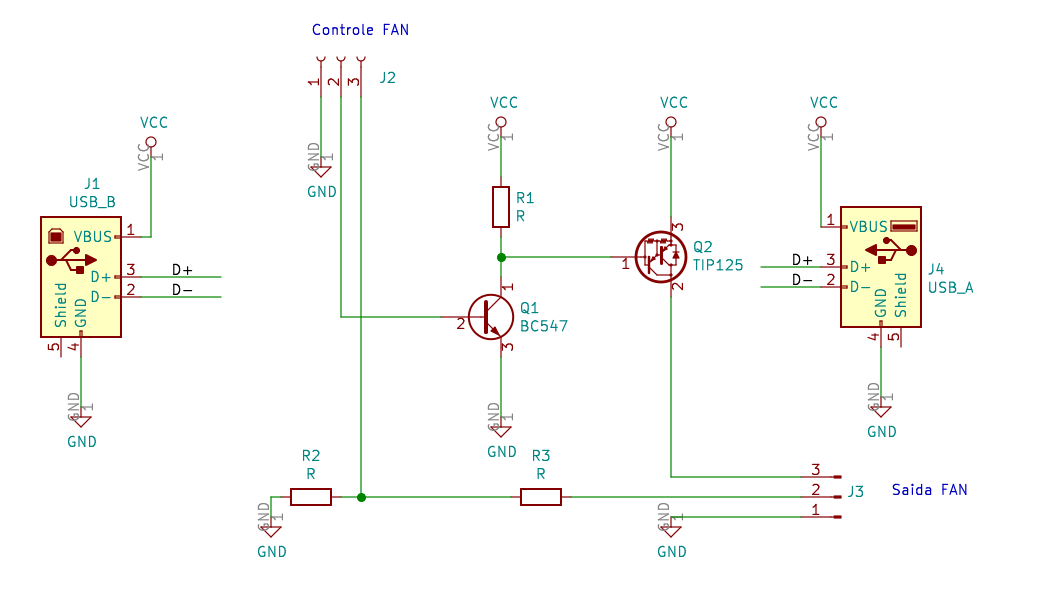
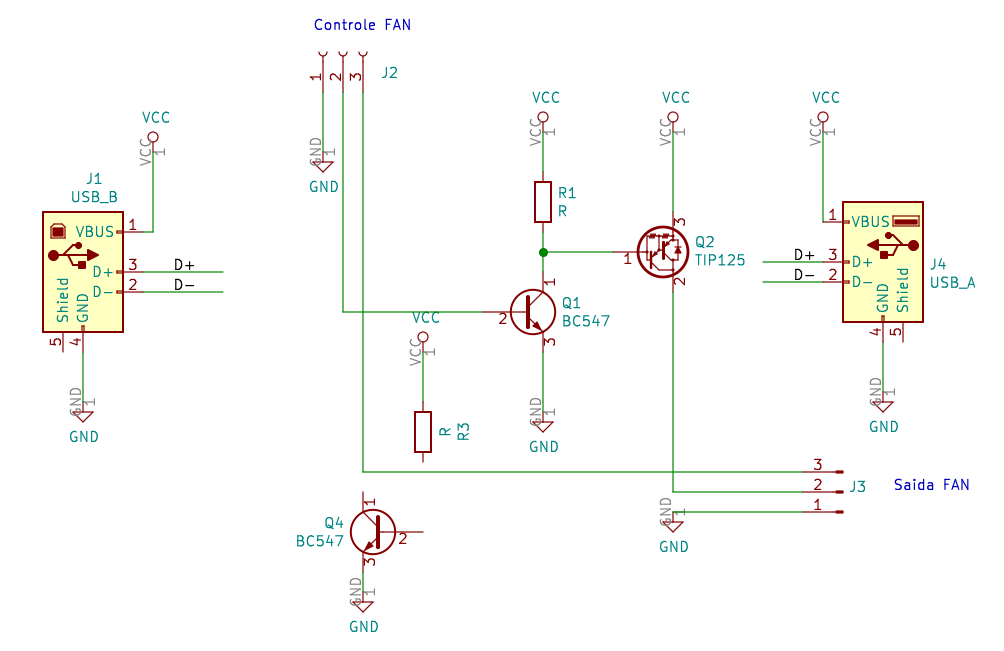
Atualizacao com controle de FAN

diff --git a/README.md b/README.md
@@ -1,4 +1,5 @@
-# ESP12_Secador
+# Desidratador automático de laboratório 
+
 Projeto de desenvolver um desidratador de laboratorio a partir de um forno elétrico.
 
 Desenvolvido por Rudi van Els [site](http://fga.unb.br/rudi.van) inicio dezembro 2020.
@@ -9,12 +10,11 @@ Desenvolvido por Rudi van Els [site](http://fga.unb.br/rudi.van) inicio dezembro
 # 1. Apresentação 
 
 Por que fazer este desidratador?
-A demanda surgiu depois de observar o trabalho demorada de levantar curva de secagem de produtos em laboratório onde era necessária  fazer medidas da perda de massa durante horas. 
+A demanda surgiu depois de observar o trabalho demorada de levantar curva de secagem de produtos em laboratório onde era necessária  fazer medidas da perda de massa durante horas ou dias. 
 
 Um processo típico pode levar algumas horas, com a necessidade de registrar essa perda a intervalos regulares que variam de um a alguns dezenas de minutos. 
 
 Como não tem desidratadores que fazem essas medidas automáticas, resolvi fazer um. Em vez de pegar um desidratador pronto, resolvemos adaptar um forne elétrico, pois os desidratadores comerciais no mercado não são muito apropriados para uso no laboratório por causa do seu tamanho. 
-
 
 A escolha do usar um forne elétrico é por causa da grande variedades de modelos disponíveis no mercado a preços competitos. Entretanto, nada impede de pegar a tecnologia desenvolvido e adapta-lo a um desidratador comercial.  
 
@@ -32,7 +32,11 @@ O desidratador de laboratório deve ser capaz de:
 
 
 A figura a seguir mostra a proposta do diagrama de bloco do desidratador. 
+
 ![](figuras/Diagrama_de_blocos.jpg)
+
+O desidratador tem uma entrada de ar controlador por um ventilador, uma câmara de aqueciemento com resistores de aquecimento, uma bandeja pendurada numa balança com a amostra a ser desidratada, e uma saída de ar na parte superior. 
+O equipamento mede a umidade e temperatura na entrada e saída por meio de uma unidade de controle e mostra os dados num display. 
 
 Num futuro pretende-se desenvolver um equipamento que possa-se automáticamente fazer a desidratação a partir de uma taxa de secagem  escolhida.
 
@@ -46,20 +50,30 @@ Este video mostra o forno e a proposta de transformar o forno num desidratador. 
 
 ## 3.1. Adaptação mecânica da parte interna do forno
 
+O princípio de funcionamento do desidratador e circular ar na amostra capaz de absorver a umidade.
+Para isso o ar do fora do desidratar é aquecida numa câmara de aquecimento para depois circular no desidratador e em seguida extraída para fora.
+Assim vamos ter que construir uma entrada de ar controlada no lateral do forno e uma saída, tipo chamine na parte superior do forno.
+A entrada de ar deve dar acesso a uma câmara de aquecimento.
 
+ 
 
 ## 3.2. Câmara de aquecimento 
 
-## 3.3. Balança eletrônica
-O video mostra a balança instalada no forno fazendo a pesagem automática. 
+O forno já tem resistências de aquecimento que podem ser aproveitados. Ao total o forno tem 4 resistores de aquecimento que formam dois circuitos separados com 2 resistores em serie. Cada uma das resistência tem 30 ohms. Assim a potência minima com dois resistores em série (60 ohms) ligado a rede de 220 volts é de 800 Watts.
+Com os dois circuitos em paralelo o sistema pode produzir 1600 Watts.
+ 
+Como ainda não se sabe qual a potência necessária para fazer a desidratação vamos começar fazer uma configuração com os quatro resistores em serie, colocando assim inicialmente 400 Watts de capacidade máxima de aquecimento. 
 
-[Video com o protótipo da pesagem automática](https://www.youtube.com/watch?v=mP0JLjlJqJM)
+A configuração original do forno tinha um banco de resistores na parte de cima do forno e um banco com dois resistores em baixa. 
+A primeira adaptação foi colocar os dois resistores da parte superior na parte de baixo do forno e abrir uma entrada para o ar no lateral, como mostrado na foto a seguir.
 
-A medição da massa é feito por uma célula de carga e um amplificador de instrumentação HX711 mostrada na foto.
-![](fotos/esp-hx11.jpg)
+![](fotos/resistencia_aquecimento.jpg)
 
+Para que o ar seja aquecido de forma uniformente ao no ambiente interno do forno, é necessário construir uma câmara  de aquecimento. 
 
-## 3.4. Duto de ar de entrada
+### 3.2.1 Construção da câmara
+
+## 3.3. Duto de ar de entrada
 No lataral do forno foi feita uma adaptação colocando um duto de ar para captar o ar de fora por meio de um ventilador que pode ter sua velocidade controlada.
 
 O video mostra a adaptação e o duto de ar. 
@@ -70,6 +84,52 @@ O video mostra a adaptação e o duto de ar.
 A foto mostra o medidor de umidade e temperatura DHT11 instalada no duto de entrada do ar.
 
 ![](fotos/duto-com-dht11.jpg) 
+
+## 3.4. Balança eletrônica
+
+Uma das principais necessidades do desidratador é de poder medir a massa da amostra sem ter que tira-lo do equipamento. 
+Para fazer isso foi construído na parte superior do forno um suporte para fixar uma balança eletrônica que por sua vez permite pendurar uma bandeja. 
+A estrutura de suporte da bandeja foi construido em aluminio e tem, junto com a bandeja uma massa de aproximadamente xxx gramas.
+A foto a seguir mostra o suporte e a bandeja. 
+
+
+![](fotos/rack_com_balanca.jpg)
+
+A balança eletrônica tem como elemento central uma célula de carga com capacidade de medir até 1 kg.
+Dessa forma pode se colocar amostras de até 500 gramas, que bastante suficiente para uma amostra de secagem. 
+
+A foto em baixo mostra o detalhe da instalação da célula de carga. 
+
+![](fotos/celula_carga_montada.jpg)
+
+
+O video a seguir mostra a balança instalada e funcionando no forno fazendo a pesagem automática. 
+
+[Video com o protótipo da pesagem automática](https://www.youtube.com/watch?v=mP0JLjlJqJM)
+
+A célula de carga é ligado a um amplificador de instrumentação HX711 que é processado pelo microcontrolador que comando todo funcionamento do sistema. A foto a seguir mostra o amplificador HX711 e o microcontrolador ESP-12F.
+
+![](fotos/esp-hx11.jpg)
+
+### 3.4.1. Compensação de temperatura
+
+Um desafio deste projeto é de fazer a compensação da medição de massa com o aumento da temperatura, já que o ensaio vai ser realizado com temperatura bem a cima de temperatura ambiente para qual o sensor é calibrado.   
+
+A especificação técnica da célula de carga o sensor deve aguantar temperaturas até 70 graus, mas deve ter uma distorção da medição com o aumento da temperatura. 
+
+Um ensaio num outro projeto [1] com uma celulá de carga com a mesma caracterítica levantou o comportamento da mesma em relação aumento de temperatura. A figua a seguir mostra que uma amostra inerte de massa conhecido submetido a um ensaio. 
+
+![](figuras/ensaio_celula_carga.jpg)  
+
+Chega se a conclusão que tem para um aumento de 30  graus celsius tem-se um aumento de aproximadamente 10 gramas no valor inicial de 95 gramas.
+Isso dá um aumento de 0,35% por incremento de grau celcius.
+
+Convem mencionar que este foi o primeiro ensaio e que são necessários mais ensaios para fazer uma calibração mais precisa.
+Também é necessário modelar o retardo ou atraso do processo e avaliar sem tem algum efeito de histerese.
+
+[1] Santos I da S, Mendonça ARV, Els RH van. Instrumentacão de secador de bandejas. Congr. iniciação científica Univ. Brasília, 2020.
+
+
 
 # 4. Controle
 
@@ -101,13 +161,107 @@ O diagrama elétrico é
 
 ## 4.1. Circuito de acionamento da FAN
 
+O circuito de acionamento do ventilador é mostrada a seguir.
+O ventilador tem um circuito de realimentação que mede a rotação e disponibilize este dado por meio de um circuito coletar aberto.
+  
 ![](figuras/Esquema_controle_FAN.png)
+
+
+A foto a seguir mostra a implementação do acionador *driver* de potência do ventilador e as portas USB para sua alimentação. 
+ 
+![](fotos/driver_ventilador.jpg)
+O sinal de velocidade foi medido no osciloscópio e chega até 100hz quando alimentado com 5 volts. 
+Pretende se variar o acionamento por meio de um sinal PWM gerado pelo microcontrolador. 
+O PWM do ESP-12F tem uma frequencia de 1kHz e um range de [0-1024] que já vem configurado ao chamar a função `analogWrite(pino , valor);` do Arduino IDE. 
+
+Percebe-se que o ventilador tem uma zona morta que fica em torno de 600 unidades do PWW ou seja 600/1024 * 4,8 volts.
+
+Com controle manual em malha aberta mostra que é possivel com um pouco de sensibilidade ajustar a velocidade até mais ou menos 50Hz.
+Valores a baixo disso são difícis de ajustar manualmente em malha aberta.
+
+Isso pode ser um problema, quando queremos ajustar uma vazão de ar de entrada nessa faixa no desidratador.  
+
+Para poder controlador a velocidade da FAN mais precisa e obter baixas vazões de entrada de ar estável no desidratador, vai ser necessária fazer um algoritmo de controle com o usando o sinal de velocidade com realimentação. 
+
+O sinal de velocidade da FAN foi ligado a entrada de interrupção externa no pino D7 do microcontrolador ESP-12F para poder medir a frequencia gerado pela FAN a cada segunda.
+
+Uma tentativa de implementar o controle proporcional simples, tendo como taxa de amostragem 1 segundo com valores de ganho do controlador de variando entre 6 e 15 não deu um resultado muito satisfatório e o sistema ficou instável. 
+
+Isso mostra que vai ser necessário sintonizar um controlador PID. O primeiro passo foi fazer um ensaio ao degrau, mostrada na figura a seguir, medindo o tempo entre cada interrupção gerado pelo sensor de velocidade da FAN e armazenando o tempo numa vetor de 200 pontos.  
+ 
+
+![](figuras/Ensaio_degrau_FAN.png)
+Eixo x = Tempo em milisegundos ; 
+Eixo y = Frequencia
+
+O programa em Octave que leu, tratou e plotar essas medidas do Arduino de forma automática está listado a seguir.
+
+```
+# Programa /Users/rudi/src/octave/secador/testa1.m
+# o programa espera os dados do Arduino com os 
+# 200 primeiras interrupcoes e os respectivos tempos em cada 
+# interrupçao para plotar o grafico
+
+pkg load instrument-control
+
+s1 = serial("/dev/tty.SLAB_USBtoUART");
+pause(1);
+srl_flush(s1);
+srl_write(s1,"1");
+data=char(srl_read(s1,260));  # 200
+cc=textscan(data,"%f");
+fclose(s1);
+lin=transpose(cc{:}) * 0.001;  # valores em millisegundos
+tam=length(lin);
+t=[1:tam];
+x=lin;
+vel=lin;
+x(1)=lin(1);
+for i=1:(tam-1)  x(i+1)=x(i)+lin(i+1); endfor
+for i=1:(tam)    vel(i)=1/lin(i);      endfor 
+plot(x,vel,x,vel,"*")
+title("Resposta ao degrau");
+xlabel("tempo em segundos");
+ylabel("frequencia em Hz");
+```
+
+
+A proposta agora é projetar um controlador para poder garantir uma velocidade e consequentemente uma vazão controlada no desidratador. 
+
+O desafio vai ser montar uma estratégia de controle pendurada na interupção do próprio sensor e usar como referência o tempo entre cada interupção, ou sintonizar um controlador PID com taxa de amostragem de 1 segundo capaz de garantir o controle. 
+
+
+Analisando a constante de tempo de 400 ms do ventilador, surge a pergunta. É possivel calcular um controlador digital proporcional capaz de ter uma resposta estável para um sistema de primeia ordem do tipo 1 com taxa de amostragem de 1 segundo ?
+
+Será que pode ser mostrado teoricamente que para estes casos se precisa de um controlador que lembro das amostras anteriores, como por exemplo PI e PD?
+
+Como o foco deste texto não entrar na teoria de controle, vamos disponibilizar um outro repositório para explicar essa questão, mostrando o passo a passo da sintonia, usando o hardware disponível e as ferramentas de análise e sintonia de controladores do Octave.
+O resultado dessa pesquisa será incorporado no controle de velociade do desidratador.  
 
 ## 4.2. Circuito de acionamento da resistência de aquecimento
 
+Outra parte crucial no desidratador é a capacidade de controlar a temperatura na camara de aquecimento e consequentemente a temperatura do ar que entre no desidratador.
+
+Para isso vai ser necessária controlar a potência dissipada nos resistores de aquecimento usando o princípio de um Dimmer. Só que neste caso o Dimmer será diretamente controlado pelo microcontrolador a partir da leitura das variáveis de temperatura, humidade do ar e velocidade do ar de entrada.
+
+O circuito que permite o acionamento das resistências de aquecimento é mostrado a seguir.  
+
 ![](figuras/Esquema_controle_potencia.png)
 
+É um circuito clássico de chave eletrônico por meio de um Triac (TIC226) acionado por um opto acoplador de isolamento MOC3023. O diode emissor de luz (led) dentro do MOC3023 é que aciona o circuito de potência. A vantagem dessa abordagem é que pode-se ligar diretamente o led à uma porta do microcontrolador e usar a mesma estratégia de variar a potência por meio da técnica PWM usado para acionar o circuito de velocidade. 
 
+Entretanto, como a resistência é acionado por uma fonte de potência AC da rede elétrica comercial que tem uma frequencia de 60Hz, vamos implementar a frequencia de chaveamento do PWM a uma frequencia muito mais lento que frequencia da rede elétrica. Isso é divido a própria característica do Triac e também pela limitação de tempo de chaveamento do led. 
 
+Como se trata de um processo térmico onde a constante de tempo é muito lento, na ordem de dezenas de segundos, podemos escolher qualquer frequencia pelo menos dez vezes menor que a frequencia da rede. 
 
+Se o aquecimento fosse feito com lâmpadas incandescente, seria intessante usar uma outrá técnica de acionamento que evitasse a efeito visual da variação da luz. Neste caso poderia se optar por circuitos de acionamento mais sofisticado que modulam a largura do pulso da própria tensão da rede. 
 
+Como nosso circuito é resistivo, podemos usar essa estratégia mais simples. Outra questão que tem que depois ser avaliado é a interferência que o circuito de chaveamento de potência pode causar nos circuitos de medição de temperatura, humidade, célula de carga e a velocidade da FAN. 
+
+Mas isto será avaliada experimentalmente. 
+
+A foto mostra o circuito sendo montado.
+
+![](fotos/Chave_eletronica.jpg)
+
+# 5. Resultados
